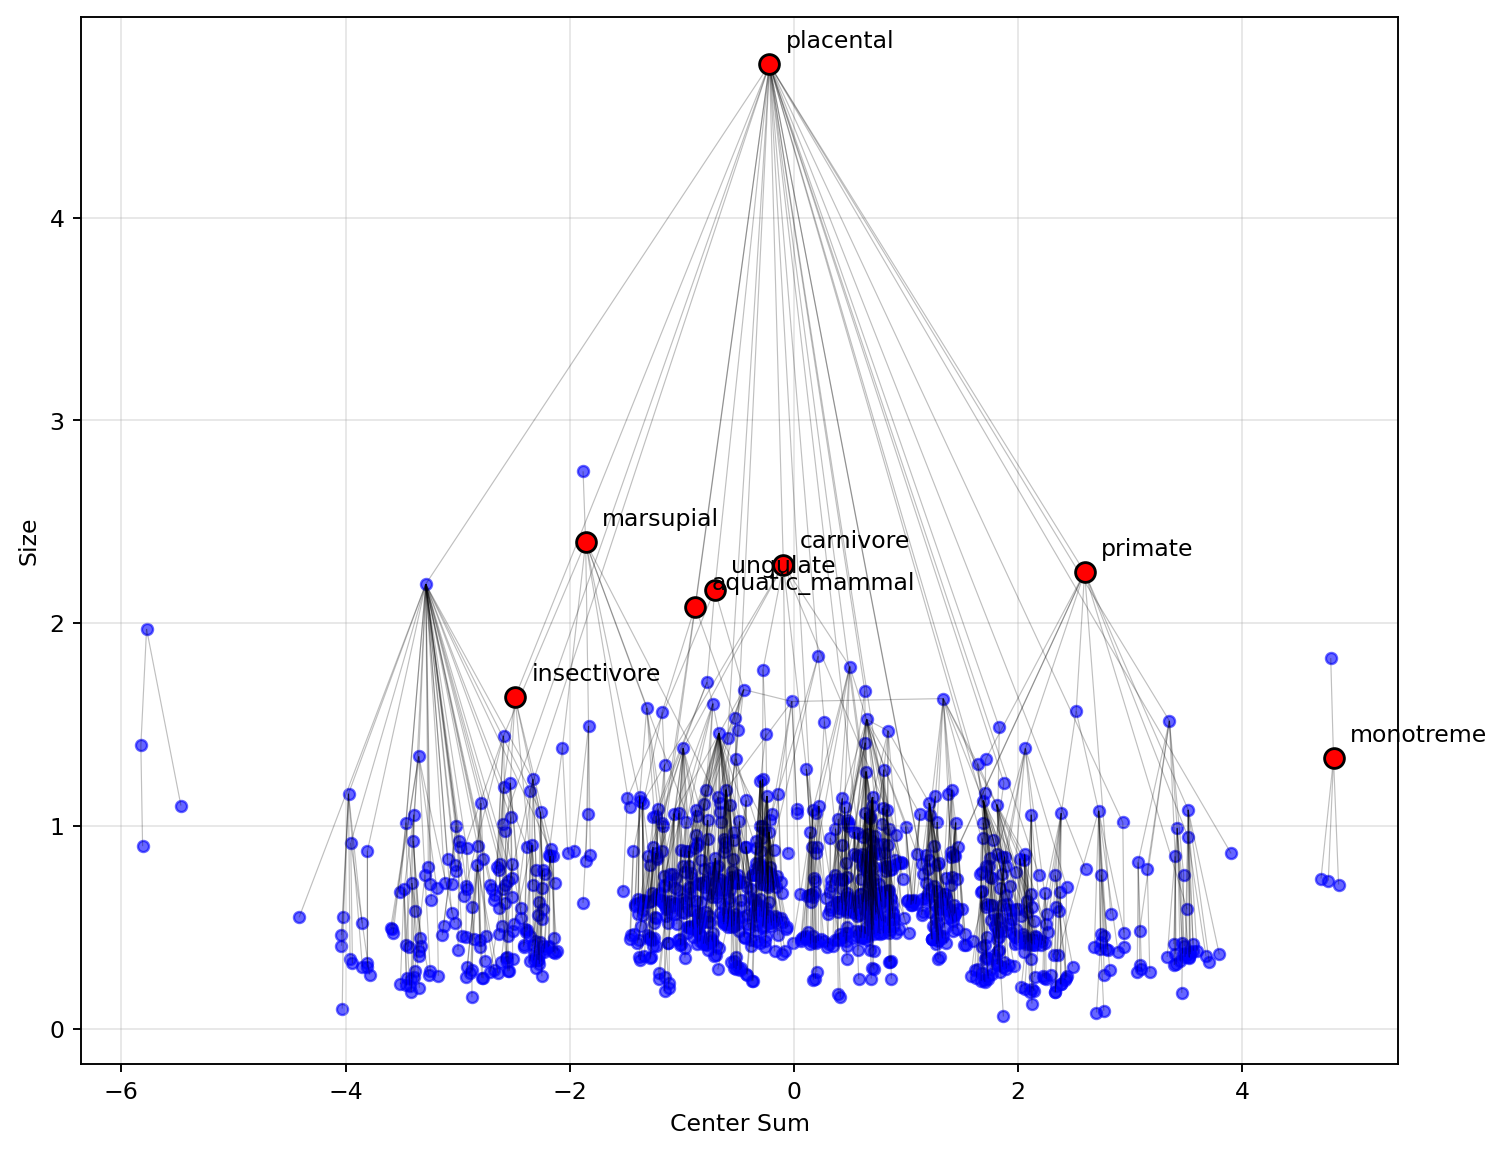
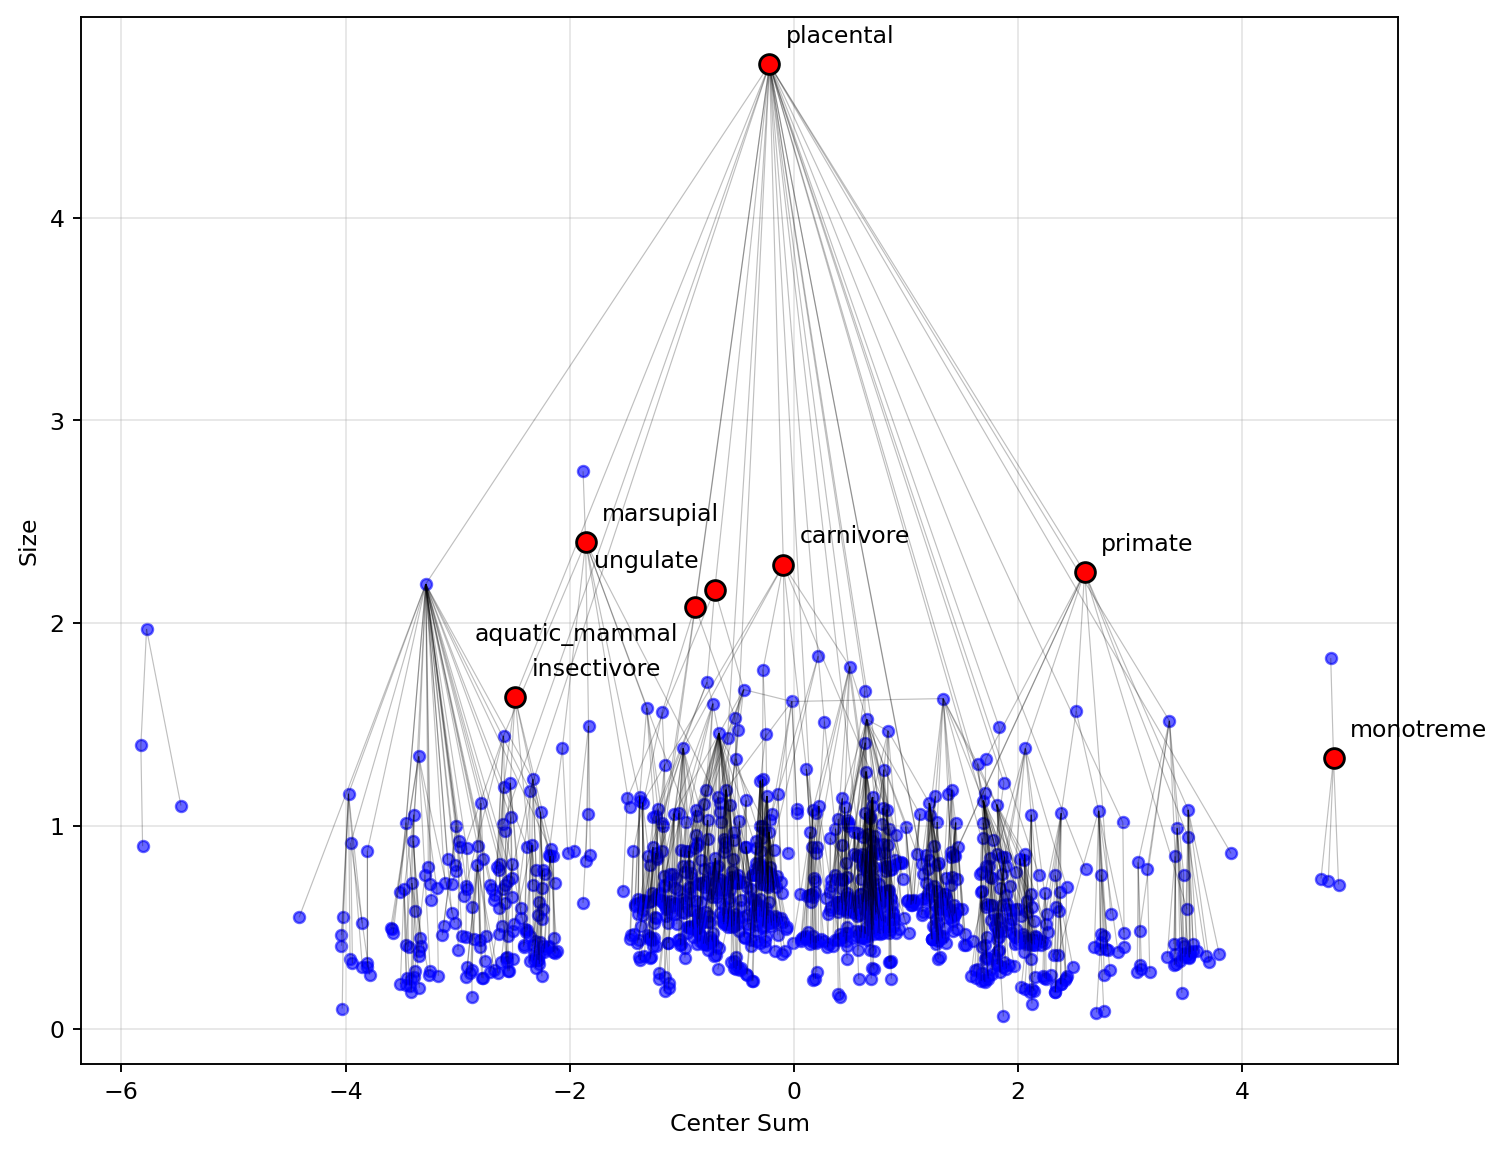
README figure: move three overlapping labels apart

diff --git a/scripts/readme_figure.py b/scripts/readme_figure.py
@@ -2,7 +2,7 @@
 point (sum of the centre coordinates, radius), the training edges as lines, a few classes named.
 python scripts/pretrain.py paper/data_utils/data/maxn/mammal_closure.tsv --dim 2 --region ball \
     --set lam=1.0 p=2 lr=0.01 batch_size=32 epochs=400 device=cpu --out mammal_ball_d2.pt
-python scripts/readme_figure.py mammal_ball_d2.pt docs/regions.png placental.n.01 carnivore.n.01 ..."""
+python scripts/readme_figure.py mammal_ball_d2.pt docs/regions.png placental.n.01 carnivore.n.01 ungulate.n.01@-7,7 ..."""
 import sys
 import matplotlib
 matplotlib.use("Agg")
@@ -18,10 +18,13 @@ fig, ax = plt.subplots(figsize=(10, 8))
 ax.add_collection(LineCollection([[(x[p], y[p]), (x[c], y[c])] for p, c in h.edges], colors="black",
                                  linewidths=0.5, alpha=0.25))
 ax.scatter(x, y, s=22, c="blue", alpha=0.6)
-for n in named:
+for n in named:                                     # "node" or "node@dx,dy": where the name goes, in points
+    n, _, off = n.partition("@")
+    dx, dy = map(float, off.split(",")) if off else (7, 7)
     i = int(h.index[n])
     ax.scatter(x[i], y[i], s=70, c="red", edgecolors="black", linewidths=1.2, zorder=3)
-    ax.annotate(str(n).split(".")[0], (x[i], y[i]), xytext=(7, 7), textcoords="offset points", fontsize=10)
+    ax.annotate(str(n).split(".")[0], (x[i], y[i]), xytext=(dx, dy), textcoords="offset points", fontsize=10,
+                ha="right" if dx < 0 else "left", va="top" if dy < 0 else "bottom")
 ax.set_xlabel("Center Sum")
 ax.set_ylabel("Size")
 ax.grid(alpha=0.3)
